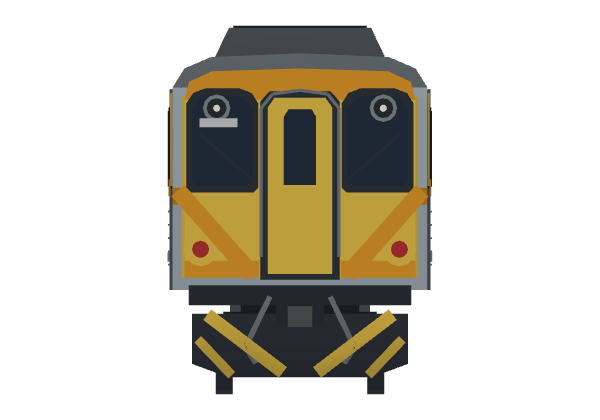
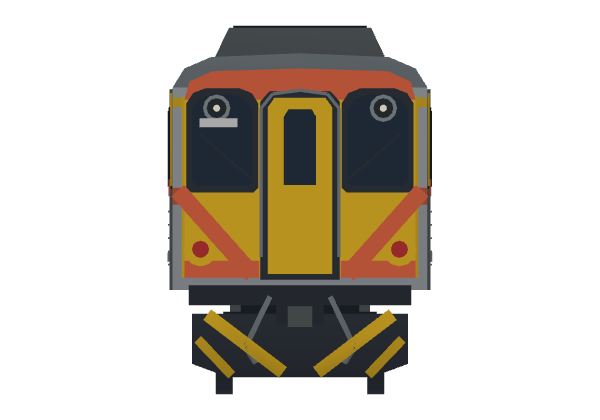
DR3100's paint from the author's photographs of DR3120 (decision 511)
The thin yellow line over the windows is back and the band is the
photographs' red-orange; each colour the median of its hue in both.

Claude-Session: https://claude.ai/code/session_01YGNNuo4eEH6JS6x5CwJ3LG

diff --git a/Sources/GamePresentation/Map3D45DR1000.swift b/Sources/GamePresentation/Map3D45DR1000.swift
@@ -27,12 +27,13 @@ public enum Map3D45DR1000 {
         public static let dr1000 = Livery(silver: Map3D45DR1000.silver, orange: Map3D45DR1000.orange, topBand: Map3D45DR1000.yellow,
                                           yellow: Map3D45DR1000.yellow, name: "45dr1000-drc1025")
         /// Decision 511: the DR3100 diesel express on this shape until it
-        /// has its own: the reference's `dr3100` specification (silver
-        /// `BFC8C9` body, `E89A27` accent, yellow gangway end), one orange
-        /// waist stripe and no stripe under the roof; the yellow of its
-        /// model's `yellow` group.
-        public static let dr3100 = Livery(silver: Map3DColor.rgb(0xBFC8C9), orange: Map3DColor.rgb(0xE89A27),
-                                          topBand: Map3DColor.rgb(0xBFC8C9), yellow: Map3DColor.rgb(0xECC147), name: "dr3100-on-45dr1000")
+        /// has its own, in the colours of two photographs of DR3120 the
+        /// author gave (2026-10-30, KASHIWA Train Collection): the stainless
+        /// body, the red-orange band under the windows that runs on as the
+        /// ends' brow and V, a thin yellow line along the windows' top and
+        /// the yellow face, each the median of its colour in both.
+        public static let dr3100 = Livery(silver: Map3DColor.rgb(0xAEB0AD), orange: Map3DColor.rgb(0xE0653F),
+                                          topBand: Map3DColor.rgb(0xE6B324), yellow: Map3DColor.rgb(0xE6B324), name: "dr3100-on-45dr1000")
     }
 
     public static func model(far: Bool = false, livery: Livery = .dr1000) -> Map3DModelPack.Model {

diff --git a/Tests/GamePresentationTests/Map3DDR3100Tests.swift b/Tests/GamePresentationTests/Map3DDR3100Tests.swift
@@ -29,7 +29,7 @@ final class Map3DDR3100Tests: XCTestCase {
             XCTAssertEqual(dr3100.vertices.map { [$0.x, $0.y, $0.z] }, dr1000.vertices.map { [$0.x, $0.y, $0.z] }, "the same shape")
             XCTAssertNotEqual(dr3100.vertices.map(\.color), dr1000.vertices.map(\.color), "its own paint")
             let colours = Set(dr3100.vertices.map(\.color))
-            XCTAssertTrue(colours.contains(Map3DColor.rgb(0xBFC8C9)) && colours.contains(Map3DColor.rgb(0xE89A27)))
+            XCTAssertTrue(colours.contains(Map3DColor.rgb(0xAEB0AD)) && colours.contains(Map3DColor.rgb(0xE0653F)) && colours.contains(Map3DColor.rgb(0xE6B324)))
             XCTAssertFalse(colours.contains(Map3D45DR1000.orange), "none of the DR1000's orange")
         }
     }

diff --git a/docs/decisions/511.md b/docs/decisions/511.md
@@ -9,7 +9,8 @@
 **1. 外型**：柴聯自強（`dieselExpress`）三節以上，近景與遠景都改用 #1530 的 45DR1000 配方（`Map3D45DR1000`），換成 DR3100 自己的塗裝。
 
 - `Map3D45DR1000.Livery`：同一個外型，四個顏色可換（車身、腰帶與車端的橘、車頂下細帶、車端的黃）。DR1000 用原本的顏色（`.dr1000`），模型名字與雜湊都沒變（`hashes.lock.json` 的 `45dr1000-*`、`set-dieselRailcar*` 一行都沒動）。
-- DR3100（`.dr3100`）：車身 `BFC8C9`、腰帶 `E89A27`，都是參考庫 `rail-3d/assets/garage-blender-v1/dr3100.json` 的 `specification`（`body`、`accent`），遊戲原本的 DR3100 也是這兩色；車端的黃 `ECC147` 是同一個模型 `yellow` 那組的顏色（線性 0.839／0.533／0.063 換成 sRGB）；規格只有一條 accent，所以車頂下那條細帶塗成車身色。模型名 `dr3100-on-45dr1000`（遠景 `-far`）。
+- DR3100（`.dr3100`）：顏色照作者 2026-10-30 給的兩張 DR3120 實車照片（KASHIWA Train Collection；照片只拿來取色，沒有放進 repository），每種顏色取兩張照片裡那個色相所有像素的中位數：不鏽鋼車身 `AEB0AD`（照片 `B0B0AF`／`ADAFAB`）、窗下的紅橘帶與車頭的眉、V 字 `E0653F`（`C1654D`／`ED663C`）、窗上緣的細黃線與黃色車頭 `E6B324`（`E0A925`／`ECBC22`）。照片裡的配置和 DR1000 的配方一樣：窗下紅橘帶、窗上細黃線、黃色車頭、紅橘色的車頂眉與從腰帶斜下的 V、黃色貫通門，所以只換顏色。模型名 `dr3100-on-45dr1000`（遠景 `-far`）。
+- 第一版（同一天、作者看照片之前）用參考庫 `rail-3d/assets/garage-blender-v1/dr3100.json` 規格的 `BFC8C9`、`E89A27`，又因為規格只寫一條 accent 而拿掉窗上的細帶。作者問「有參考實際圖嗎」，對照片後改掉：照片有那條細黃線，紅橘帶也比規格的 `E89A27` 紅。參考庫的示意圖（`garage-blender-v1/dr3100.webp`、App 的 `la-side-dr3100`）是渲染圖，不是照片。
 - 每節兩端都有駕駛室，最後一節轉向，車長照配方自己的 19.8 m（`ownLengths`），和 DR1000 一樣（`dr1000Railcar(far:livery:)`）。
 - 一、兩節照決策 331（續二）畫 DR1000（`set(forKey:count:)` 沒改）：DR3100 是三輛一組，一、兩節不是它的編成。
 - 舊的套件車身（`multipleUnit("dieselExpress", asset: "05_TRA_classic_3x2-04" …)`）拿掉；套件目錄裡的 `05_TRA_classic_3x2-04` 是場景套件自己的條目，留著。
@@ -40,17 +41,18 @@
 | 同上 `data/tra_special_trains.json` 的 `rollingStock` `dr3100`（`carNames: ["自強(D31)"]`） | 工具的 `MODEL` | 車種代碼對到 DR3100 |
 | 同上 `rail-3d/integration/formations.js` `dr3100: estimated('dr3100', repeat(3,20), …)`、`formationFor` 的 `cn.includes('(D31')` | `Map3DRealTrains.dr3100`（`dieselExpress`、3 節） | 節數照參考；20 m 車長沒用，模型照配方自己的 19.8 m |
 | 同上 `rail-3d/integration/FORMATIONS.md`（DR3100 3 節，維基） | 同上 | 依據 |
-| 同上 `rail-3d/assets/garage-blender-v1/dr3100.json` `specification.body` `BFC8C9`、`accent` `E89A27`、`front: yellowgangway`、`drawGroups` `yellow` | `Map3D45DR1000.Livery.dr3100` | 只用顏色；那個 53,210 個三角形的模型不出貨 |
+| 同上 `rail-3d/assets/garage-blender-v1/dr3100.json`（`specification`、`.webp`） | 沒有用（第一版用過，改成照片的顏色） | 那個 53,210 個三角形的模型不出貨 |
+| 作者給的兩張 DR3120 照片（2026-10-30，KASHIWA Train Collection） | `Map3D45DR1000.Livery.dr3100` | 只取色（中位數），照片不進 repository |
 | 公開 #1530 的 `Map3D45DR1000`（DRC1025） | 同一個配方，`livery` 參數 | 外型共用（作者：兩者差異不大） |
 
 外部專案：沒有找。外型與時刻都在本專案和參考庫裡；把一班車拆到幾條線上是本專案自己的（照高鐵一天的排法）。
 
 ## 五方理由
 
-- 玩家：買柴聯自強三節以上，看到的是銀色橘帶、黃色車頭的 DR3100，和 DR1000 一眼分得出顏色；真實地圖上宜蘭、北迴一帶每天有四班 DR3100 混在區間車裡跑。
-- 鐵道迷：車次、時刻、車種都照臺鐵開放資料 2026-10-16 的時刻表（參考庫 `tra_schedule_dense.json`，209／221／238／246，`自強(D31)`），節數照參考庫的 3 輛一組（維基）。外型借 DR1000 是作者決定的；真車的中間車（DR3200）沒有駕駛室、車長約 20 m，這裡每節兩端都有駕駛室，是已知的差別。
+- 玩家：買柴聯自強三節以上，看到的是照實車顏色的 DR3100（銀色車身、紅橘帶、黃色車頭）；真實地圖上宜蘭、北迴一帶每天有四班 DR3100 混在區間車裡跑。
+- 鐵道迷：塗裝照作者給的 DR3120 實車照片取色。車次、時刻、車種都照臺鐵開放資料 2026-10-16 的時刻表（參考庫 `tra_schedule_dense.json`，209／221／238／246，`自強(D31)`），節數照參考庫的 3 輛一組（維基）。外型借 DR1000 是作者決定的；真車的中間車（DR3200）沒有駕駛室、車長約 20 m，這裡每節兩端都有駕駛室，是已知的差別。
 - 開發：只動 GamePresentation、一個 22 KB 的資料檔和產生它的工具；DR1000 的雜湊一行都沒變；Linux 測試鎖住哪幾班、跑哪幾條線、畫成幾節，以及 `set(forKey:count:)` 的對應。
-- 美術：同一個 45DR1000 的低多邊形與霧面平塗，只換顏色；遠景版照舊會亮窗。
+- 美術：同一個 45DR1000 的低多邊形與霧面平塗，只換顏色，顏色從實車照片取；遠景版照舊會亮窗。
 - 音樂：無。
 
 ## 沒有選的做法

diff --git a/docs/art/dr3100-2026-10-30/README.md b/docs/art/dr3100-2026-10-30/README.md
@@ -2,9 +2,12 @@
 
 作者：「dr3100接入運行 先用dr1000代替 兩者差異不大」。外型是 #1530 的 45DR1000（`Map3D45DR1000`，revision-4），只換塗裝（`Map3D45DR1000.Livery.dr3100`）：
 
-- 車身 `BFC8C9`、腰帶與車端的橘 `E89A27`：參考庫 `Railway/taiwan-rail-reference-clean/source/rail-3d/assets/garage-blender-v1/dr3100.json` 的 `specification`。
-- 車端的黃 `ECC147`：同一檔 `drawGroups` 的 `yellow`。
-- 車頂下沒有細帶（規格只有一條 accent）。
+- 顏色取自作者 2026-10-30 給的兩張 DR3120 實車照片（KASHIWA Train Collection，只取色，照片不放進 repository）：每種顏色是兩張照片裡同一色相的像素中位數。
+  - 不鏽鋼車身 `AEB0AD`（兩張各 `B0B0AF`、`ADAFAB`）
+  - 窗下紅橘帶、車頂眉、車頭 V 字 `E0653F`（`C1654D`、`ED663C`）
+  - 窗上緣細黃線、黃色車頭與貫通門 `E6B324`（`E0A925`、`ECBC22`）
+- 配置和 DR1000 的配方相同（照片看得到），所以只換顏色。
+- 第一版用參考庫規格的 `BFC8C9`／`E89A27`、拿掉細黃線；對照照片後改掉。
 
 | 檔 | 內容 |
 | --- | --- |
